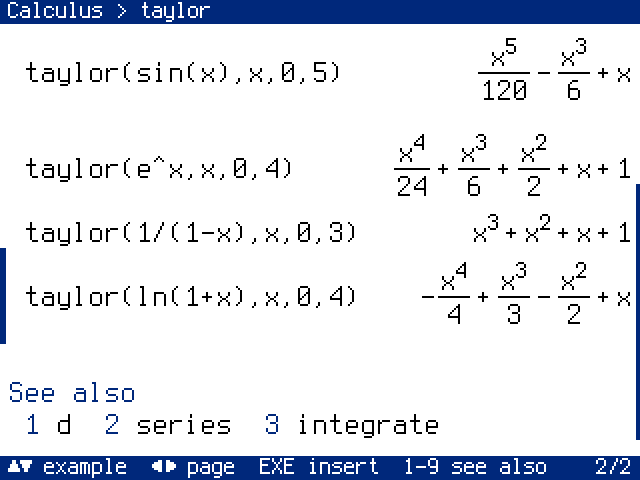
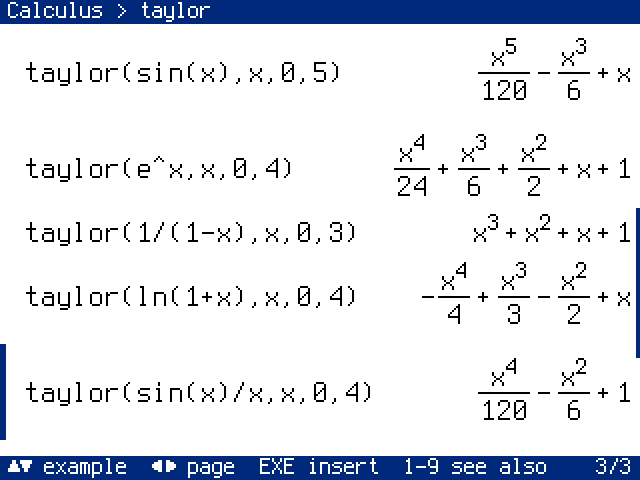
release 0.3 alpha

diff --git a/README.md b/README.md
@@ -9,10 +9,10 @@ for every function on the calculator itself.
 
 | | |
 |---|---|
-| Version | 0.2 alpha, 14 October 2026 ([what is new](#new-in-02)) |
+| Version | 0.3 alpha, 18 October 2026 ([what is new](#new-in-03)) |
 | Calculator | NumWorks N0100 only (the model number is on the back) |
-| Download | [Releases](https://github.com/hugoferreira/Symmetria/releases): `symmetria-n0100-0.2-alpha.bin`, 870,716 bytes |
[1 lines of base64/hex data omitted]
+| Download | [Releases](https://github.com/hugoferreira/Symmetria/releases): `symmetria-n0100-0.3-alpha.bin`, 868,860 bytes |
[1 lines of base64/hex data omitted]
 | Source | not published yet: see [Source code](#source-code) |
 
 Symmetria has no Python, no examination mode and none of Epsilon's
@@ -64,11 +64,13 @@ plot(x^3 - 3x, x, -3, 3)                 the graph, in the window -20 to 20
 The results are given here as text; the calculator typesets them, as in the
 screens below.
 
-About 390 functions, each with a help page on the calculator (392 pages, 648
+About 400 functions, each with a help page on the calculator (401 pages, 754
 worked examples, which a page evaluates when it is opened):
 
 - **Algebra**: `expand`, `factor`, `solve`, `cSolve`, `simult`, `partFrac`,
-  `together`, `collect`, `polyGcd`, `resultant`, `groebner`, `eliminate`.
+  `together`, `collect`, `polyGcd`, `resultant`, `groebner`, `eliminate`;
+  numeric `proot`; the orthogonal polynomials of Legendre, Hermite, Laguerre
+  and Chebyshev.
 - **Calculus**: `d`, `integrate`, `limit`, `taylor`, `series`, `deSolve`,
   `rSolve`, `laplace`, `fourier`, `zTransform` and their inverses,
   `gradient`, `jacobian`, `hessian`; numeric `nInt`, `nSolve`, `nDeriv`.
@@ -77,7 +79,8 @@ worked examples, which a page evaluates when it is opened):
 - **Numbers**: integers to about 2,300 digits and fractions of them, exact;
   factorials, binomials, Fibonacci, Bell and Stirling numbers of that size.
 - **Linear algebra**: `det`, `inverse`, `rref`, `lu`, `qr`, `cholesky`,
-  `eigVl`, `eigVc`, `jordan`, `charPoly`, `nullSpace`, `matExp`.
+  `eigVl`, `eigVc`, `jordan`, `charPoly`, `nullSpace`, `matExp`, `matpow`,
+  `matrix`; numeric `svd`.
 - **Number theory**: primes, factorisation, `gcd`, modular inverse and powers,
   the Chinese remainder theorem, continued fractions, Stirling and Bell
   numbers.
@@ -103,62 +106,59 @@ worked examples, which a page evaluates when it is opened):
 The screens are drawn by the firmware's own code, run on a computer, at twice
 their size. They are not photographs of the panel.
 
-## New in 0.2
+## New in 0.3
 
-**Graphs.** `plot(f, x)` answers with the graph of `f`, drawn in the history
-like any other result. There is no graph screen, trace or zoom key: the
-answer is also the call with the window it was drawn in,
-`plot(x^3-3x, x, -3, 3, -20, 20)`, and `↑` then `→` brings that into the line,
-where the window is changed by editing its numbers. Poles and jumps are not
-joined; functions in pieces (`if`, `piecewise`) are drawn, integrated and
-solved numerically.
+**Calculus in degrees.** Under degrees and gradians `d`, `integrate`, `limit`
+and the series are computed in radians and written back in the unit:
+`d(sin(x), x)` is `pi*cos(x)/180`, where 0.2 answered `cos(x)`. A multiple of
+`pi` is that many degrees, as on other calculators: `sin(pi/6)` is no longer
+`1/2` under degrees.
 
-| | |
-|---|---|
-| ![A cubic, its roots and its graph](screenshots/graph.png) | ![A wave packet on the dark screen](screenshots/graph-dark.png) |
-| ![The tangent, its poles not joined](screenshots/graph-poles.png) | ![A function in two pieces](screenshots/graph-pieces.png) |
+![Calculus under degrees](screenshots/degrees.png)
 
-**Colours.** The settings choose a light or a dark screen, one of seven
-accents and the height of a graph.
+**Nine new functions.** `legendre`, `hermite`, `laguerre`, `tchebyshev1`,
+`tchebyshev2`; `matpow` (also to a symbolic power), `matrix(rows, cols, f)`;
+`proot` and `svd`, numerical.
 
-**Help that computes.** A help page evaluates its examples when it is opened
-and typesets the results as the history would, under the settings in force.
-
-**Long numbers.** A sum, product, quotient or integer power of numbers is one
-exact number whatever its size, to about 2,300 digits: `30!`,
-`sum(1/k^2, k, 1, 400)`, `(2/3)^40`. `expand` goes on past coefficients of
-32 bits. Matrix functions no longer stop there either.
-
-**Long lines.** A line holds 2,047 characters (it held 255), so a long answer
-can be brought back and edited; the line scrolls in seven rows. `OK` on an
-entry of the history opens its line on a page of its own.
+**More algebra and calculus.** `gcd` and `lcm` of polynomials; systems of
+polynomial equations; cubics with three real roots; rational expressions in
+several variables reduced; integration by substitution, of absolute values and
+of rational functions over real radicals; series with poles and fractional
+powers (`series(1/sin(x), x, 0, 3)`); limits of radicals at infinity and
+one-sided limits at poles; `isPrime` past 64 bits; statistics, `lu` and linear
+systems past 32 bits.
 
 | | |
 |---|---|
-| ![An answer of 28 terms brought back into the line](screenshots/line.png) | ![The line of an entry, on its page](screenshots/line-page.png) |
+| ![A Laurent series, an integral of an absolute value, a limit at infinity](screenshots/calculus3.png) | ![A polynomial system, a gcd of polynomials, a rational expression reduced](screenshots/algebra3.png) |
+| ![A Legendre polynomial, a symbolic matrix power, numerical roots](screenshots/functions3.png) | ![The fault screen](screenshots/fault.png) |
 
-**Answers that were wrong.** A generated check, which compares the
-calculator's answers with values computed independently, found 17 classes of
-wrong answer that the hand-written tests had not; all are fixed. Among them:
-`nCr(30, 15)` was negative, `factor(x^15 - 1)` returned a product of degree
-27, `taylor(abs(x), x, 0, 3)` was 0, `3*10^9 - 2*10^9` was 5294967296. The
-[release notes](https://github.com/hugoferreira/Symmetria/releases/tag/v0.2)
+**Answers that were wrong.** 34 classes of wrong answer that 0.2 gives were
+found by the generated check, now 115,002 lines with every Tier 1 function in
+a family, and by a review of each subsystem against the sizes of input it
+accepts. Among them: `inverse` of a singular matrix returned a matrix,
+`factor(expand((x^2+1)^17))` was `(x^2+1)^16`, `cSolve(x^4 = 1, x)` gave the
+two real roots only, `integrate(1/(x-1)^2, x, 0, 2)` was -2. The
+[release notes](https://github.com/hugoferreira/Symmetria/releases/tag/v0.3)
 list them.
 
-**One form for a result.** `x^(-1)` and `1/x`, `(x*y)^2` and `x^2*y^2`,
-`4 - i` written for `-4i`: such pairs are one term now, so their differences
-are 0 and like terms join.
+**A freeze, and a screen for the next one.** A user function that recursed
+too deep could leave the calculator standing still some lines later; found on
+the calculator while this release was tested, and fixed (0.2 has it). Should
+the processor ever fault again, the calculator shows a Guru Meditation screen
+with what to send to the author, and any key starts it again.
 
-**Faster, and in less memory.** `factor(x^15 - 1)` takes 1.5 ms where it took
-763; the determinant of an 8 by 8 matrix of numbers 1.2 ms where it took 215;
-`sum(1/k^2, k, 1, 400)` 50 ms where it took 445 (estimated for the
-calculator's processor). A deeply nested line that ran the stack out, and
-left the calculator standing still until Reset, is now the error row
-`out of memory (stack)`.
+**Smaller and faster.** Over the 873 lines of the measurement corpus that give
+the same result in both versions, evaluations take 2.5 s where they took 26.7 s
+(estimated for the calculator's processor; the calculator itself took 0.994
+of the estimate at the median): `nnTrain` 0.8 s where it took 22, long sums
+and expansions a tenth of their time, assumptions a third. The median stack
+of an evaluation is 1,444 bytes where it was 1,844, and the firmware is 1.8 KB
+smaller than 0.2 with all of the above.
 
-**A freeze in long sessions.** 0.1 could stand still, deaf to every key, once
-a session was long enough for the history to drop its oldest entry. Found on
-the calculator while this release was tested, and fixed.
+What was new in 0.2 (graphs, colours, help pages that compute, long numbers
+and long lines) is in its
+[release notes](https://github.com/hugoferreira/Symmetria/releases/tag/v0.2).
 
 ## Before you install
 
@@ -176,7 +176,7 @@ the calculator while this release was tested, and fixed.
 
 ## Install
 
-1. Download `symmetria-n0100-0.2-alpha.bin` from
+1. Download `symmetria-n0100-0.3-alpha.bin` from
    [Releases](https://github.com/hugoferreira/Symmetria/releases) and compare
    its SHA-256 with the one above (`shasum -a 256` or `sha256sum`).
 2. Connect the calculator by USB. Hold `6`, press Reset on the back (a pen
@@ -185,7 +185,7 @@ the calculator while this release was tested, and fixed.
 3. Write the image to the internal flash, at address `0x08000000`:
 
    ```
-   dfu-util -d 0483:df11 -a 0 -s 0x08000000:leave -D symmetria-n0100-0.2-alpha.bin
+   dfu-util -d 0483:df11 -a 0 -s 0x08000000:leave -D symmetria-n0100-0.3-alpha.bin
    ```
 
    Without `dfu-util`: a WebUSB page such as
@@ -246,18 +246,27 @@ reinstalls Epsilon; it asks for a NumWorks account.
 ## How it is tested
 
 The evaluator and the screens are the firmware's own code compiled for a
-computer and run by a test suite. For this release 5,921 checks on the
-results of expressions and 1,545 on screens and keys pass, among them every
-example of every help page. New in 0.2: 33,600 generated lines in 28 families
-whose answers are judged by values computed independently (in Python, with
-exact integers and 30-digit arithmetic), of which 4,096 are replayed by the
-suite; 6.1 million checks of the integer and rational arithmetic against
-128-bit references; the suite run once more under sanitizers; and, for 801
-lines, the time, memory and stack each takes on the firmware's own code in an
-emulator of the processor, compared with a recorded baseline before a change
-is accepted.
+computer and run by a test suite. For this release 14,028 checks on the
+results of expressions and 1,550 on screens and keys pass, among them every
+example of every help page. 115,002 generated lines in 36 families (43,200 in
+0.2) are judged by values computed independently, in Python with exact
+integers and 30-digit arithmetic; every Tier 1 function is in a family, and
+9,720 of the lines are replayed by the suite. The integer and rational
+arithmetic is checked against 128-bit references, the suite is run once more
+under sanitizers, and for 1,287 lines the time, memory and stack each takes
+on the firmware's own code in an emulator of the processor are compared with
+a recorded baseline before a change is accepted.
 
-A build of this release's sources with a serial port added was run on an
+The serial build of this release's sources was run on an N0100 on 17 and 18
+October 2026, driven and read over USB: 1,303 lines from power-on, every line
+of the performance corpus and every help example, returned the computer's
+text but for the order of two conjugate roots, in 0.994 of their estimated
+time at the median. A longer session found a freeze that no computer can
+show (a stack that ran out left a stale pointer behind); it is fixed, and a
+fault of the processor now ends in a screen that says what happened, checked
+on the calculator.
+
+A build of 0.2's sources with a serial port added was run on an
 N0100 on 14 October 2026, driven and read over USB. 776 lines in one session
 returned what the computer returns, in the time estimated for them (0.99 of
 the estimate at the median of the 108 that take a millisecond or more). 29
@@ -270,7 +279,7 @@ calculator went on.
 That run found what no test on a computer had: after enough lines for the
 history to drop its oldest entry, the calculator could stand still until
 Reset (a table of numbers moved to an odd address, which its processor
-refuses and a computer does not). It is fixed in this image, and 0.1 has it.
+refuses and a computer does not). It is fixed since 0.2, and 0.1 has it.
 
 Not checked, because it needs eyes and hands: the colours as the panel shows
 them, stopping an evaluation with Back, the battery reading against a meter.
